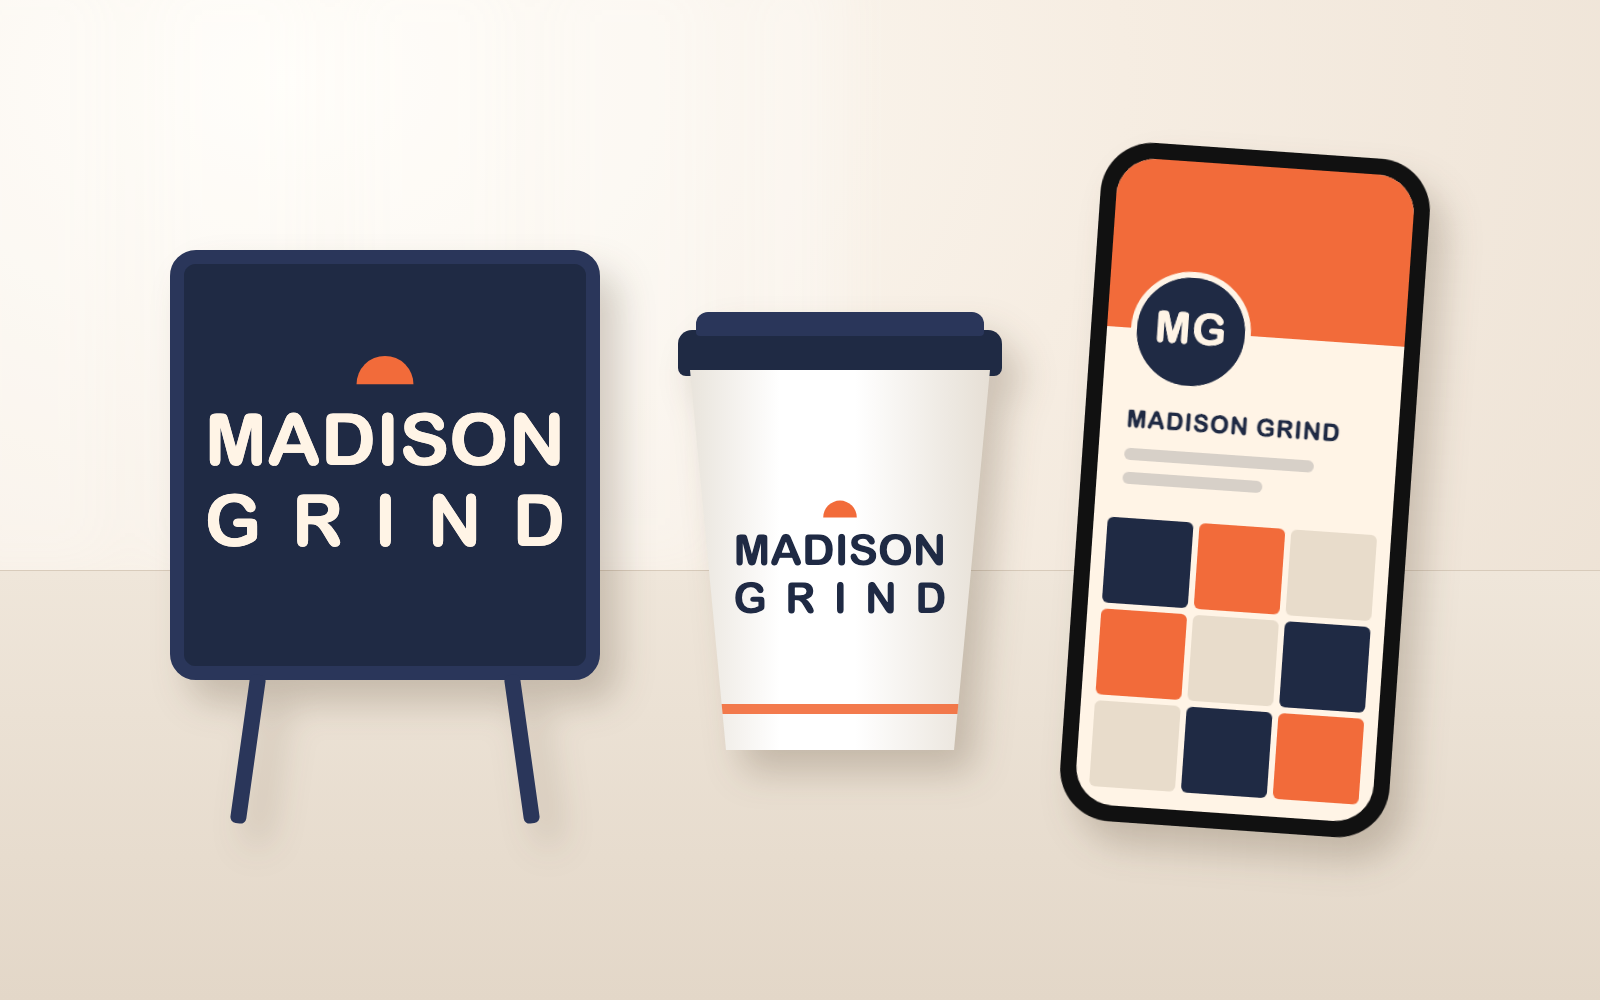
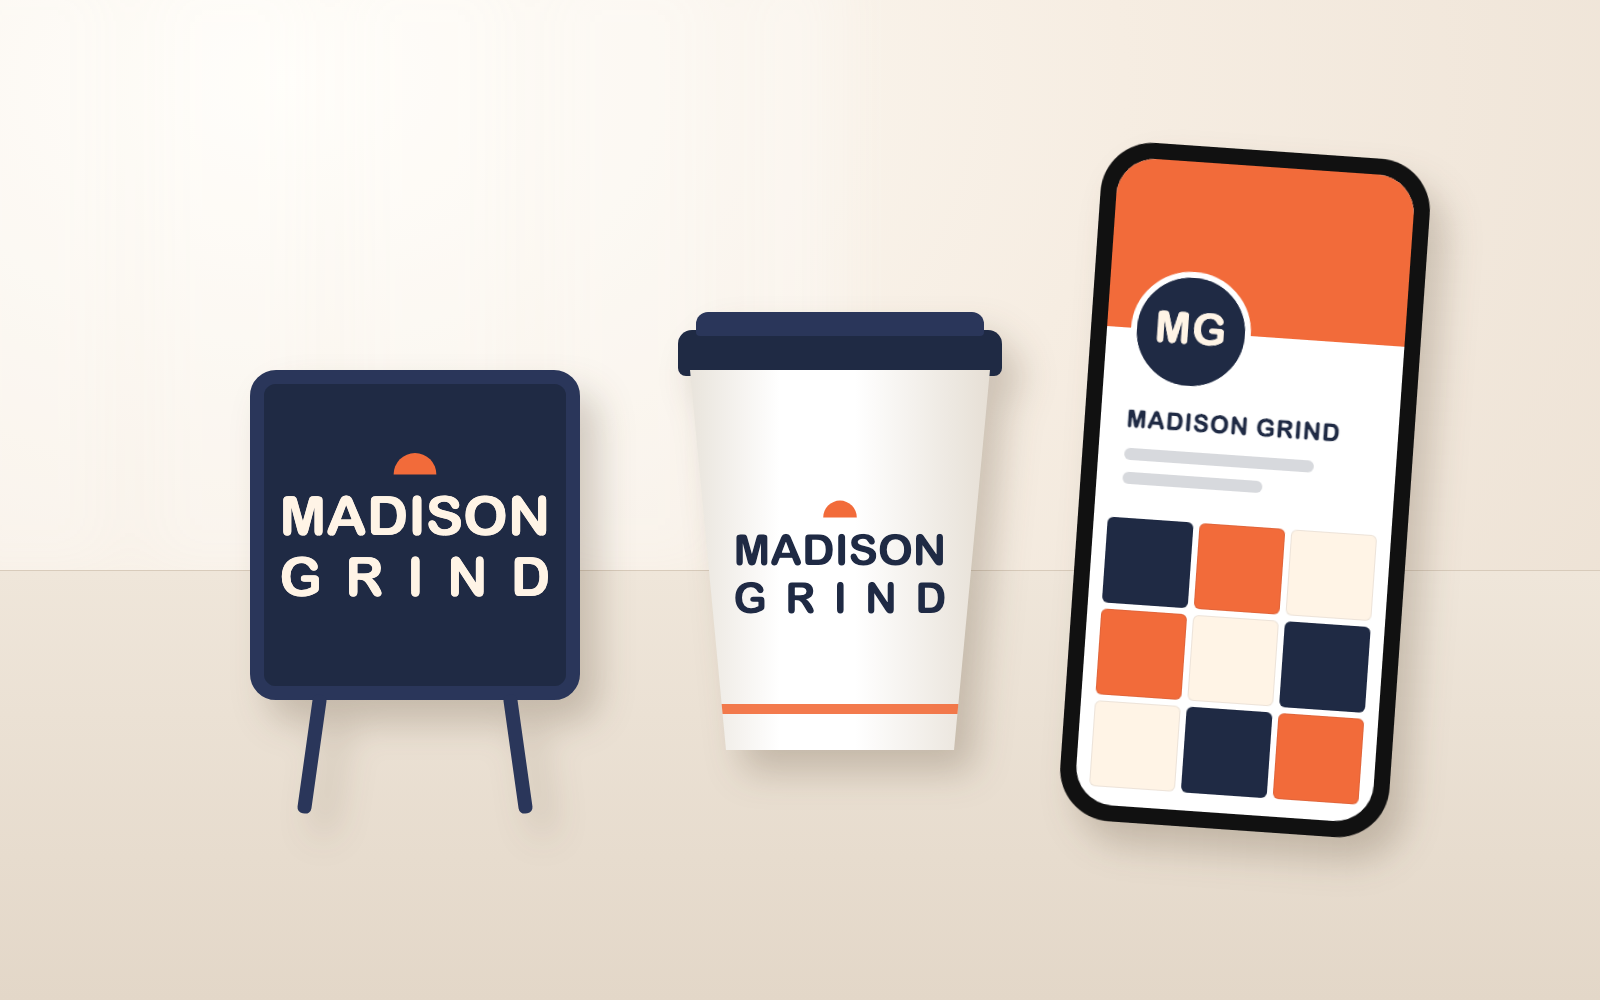
sync: 2026-09-26 15:17:31

Changed region(s): [[0.0938, 0.248, 0.4062, 0.837], [0.6562, 0.31, 0.875, 0.837], [0.75, 0.279, 0.7812, 0.31]]

diff --git a/02-PROJECTS/Education/Intro to AI/Madison Grind Brand Kit/src/mockup-v1.html b/02-PROJECTS/Education/Intro to AI/Madison Grind Brand Kit/src/mockup-v1.html
@@ -9,13 +9,13 @@ body{margin:0;width:1600px;height:1000px;overflow:hidden;position:relative;
  filter:blur(28px);opacity:.8}
 .shadow{filter:drop-shadow(18px 22px 18px rgba(60,40,20,.22))}
 /* sign */
-.sign{position:absolute;left:250px;top:370px;width:330px}
-.board{width:330px;height:330px;border-radius:26px;background:#1F2A44;overflow:hidden;
+.sign{position:absolute;left:170px;top:250px;width:430px}
+.board{width:430px;height:430px;border-radius:26px;background:#1F2A44;overflow:hidden;
  border:14px solid #2a365a;box-shadow:inset 0 0 0 2px rgba(255,255,255,.06)}
 .board img{width:100%;height:100%;display:block;transform:scale(1.18)}
-.legs{position:relative;height:110px}
-.legs:before,.legs:after{content:"";position:absolute;top:-6px;width:14px;height:120px;background:#2a365a;border-radius:6px}
-.legs:before{left:55px;transform:rotate(8deg)}.legs:after{right:55px;transform:rotate(-8deg)}
+.legs{position:relative;height:140px}
+.legs:before,.legs:after{content:"";position:absolute;top:-6px;width:16px;height:150px;background:#2a365a;border-radius:6px}
+.legs:before{left:70px;transform:rotate(8deg)}.legs:after{right:70px;transform:rotate(-8deg)}
 /* cup */
 .cup{position:absolute;left:690px;top:330px;width:300px;height:420px}
 .lid{position:absolute;left:-12px;top:0;width:324px;height:46px;border-radius:14px 14px 8px 8px;background:#1F2A44}
@@ -27,14 +27,14 @@ body{margin:0;width:1600px;height:1000px;overflow:hidden;position:relative;
 .band{position:absolute;left:0;right:0;bottom:36px;height:10px;background:#F26B3A;opacity:.9}
 /* phone */
 .phone{position:absolute;left:1080px;top:150px;width:330px;height:680px;border-radius:52px;background:#111;padding:16px;transform:rotate(4deg)}
-.screen{width:100%;height:100%;border-radius:38px;background:#FFFFFF;overflow:hidden;position:relative}
+.screen{width:100%;height:100%;border-radius:38px;background:#FFF4E6;overflow:hidden;position:relative}
 .cover{height:170px;background:#F26B3A}
-.avatar{position:absolute;left:24px;top:110px;width:120px;height:120px;border-radius:50%;border:6px solid #FFFFFF;overflow:hidden;background:#1F2A44}
+.avatar{position:absolute;left:24px;top:110px;width:120px;height:120px;border-radius:50%;border:6px solid #FFF4E6;overflow:hidden;background:#1F2A44}
 .avatar img{width:100%;height:100%}
 .name{position:absolute;left:26px;top:246px;font:700 24px 'Arial Rounded MT Bold',Arial;color:#1F2A44;letter-spacing:1px}
 .bar{position:absolute;left:26px;height:12px;border-radius:6px;background:#1F2A44;opacity:.18}
 .grid{position:absolute;left:14px;right:14px;top:360px;display:grid;grid-template-columns:repeat(3,1fr);gap:6px}
-.grid div{aspect-ratio:1;border-radius:6px;box-shadow:inset 0 0 0 1px rgba(31,42,68,.08)}
+.grid div{aspect-ratio:1;border-radius:6px}
 </style></head><body>
 <div class="window"></div>
 <div class="table"></div>
@@ -47,9 +47,9 @@ body{margin:0;width:1600px;height:1000px;overflow:hidden;position:relative;
   <div class="bar" style="top:290px;width:190px"></div>
   <div class="bar" style="top:314px;width:140px"></div>
   <div class="grid">
-    <div style="background:#1F2A44"></div><div style="background:#F26B3A"></div><div style="background:#FFF4E6"></div>
-    <div style="background:#F26B3A"></div><div style="background:#FFF4E6"></div><div style="background:#1F2A44"></div>
-    <div style="background:#FFF4E6"></div><div style="background:#1F2A44"></div><div style="background:#F26B3A"></div>
+    <div style="background:#1F2A44"></div><div style="background:#F26B3A"></div><div style="background:#e8dccb"></div>
+    <div style="background:#F26B3A"></div><div style="background:#e8dccb"></div><div style="background:#1F2A44"></div>
+    <div style="background:#e8dccb"></div><div style="background:#1F2A44"></div><div style="background:#F26B3A"></div>
   </div>
 </div></div>
 </body></html>
